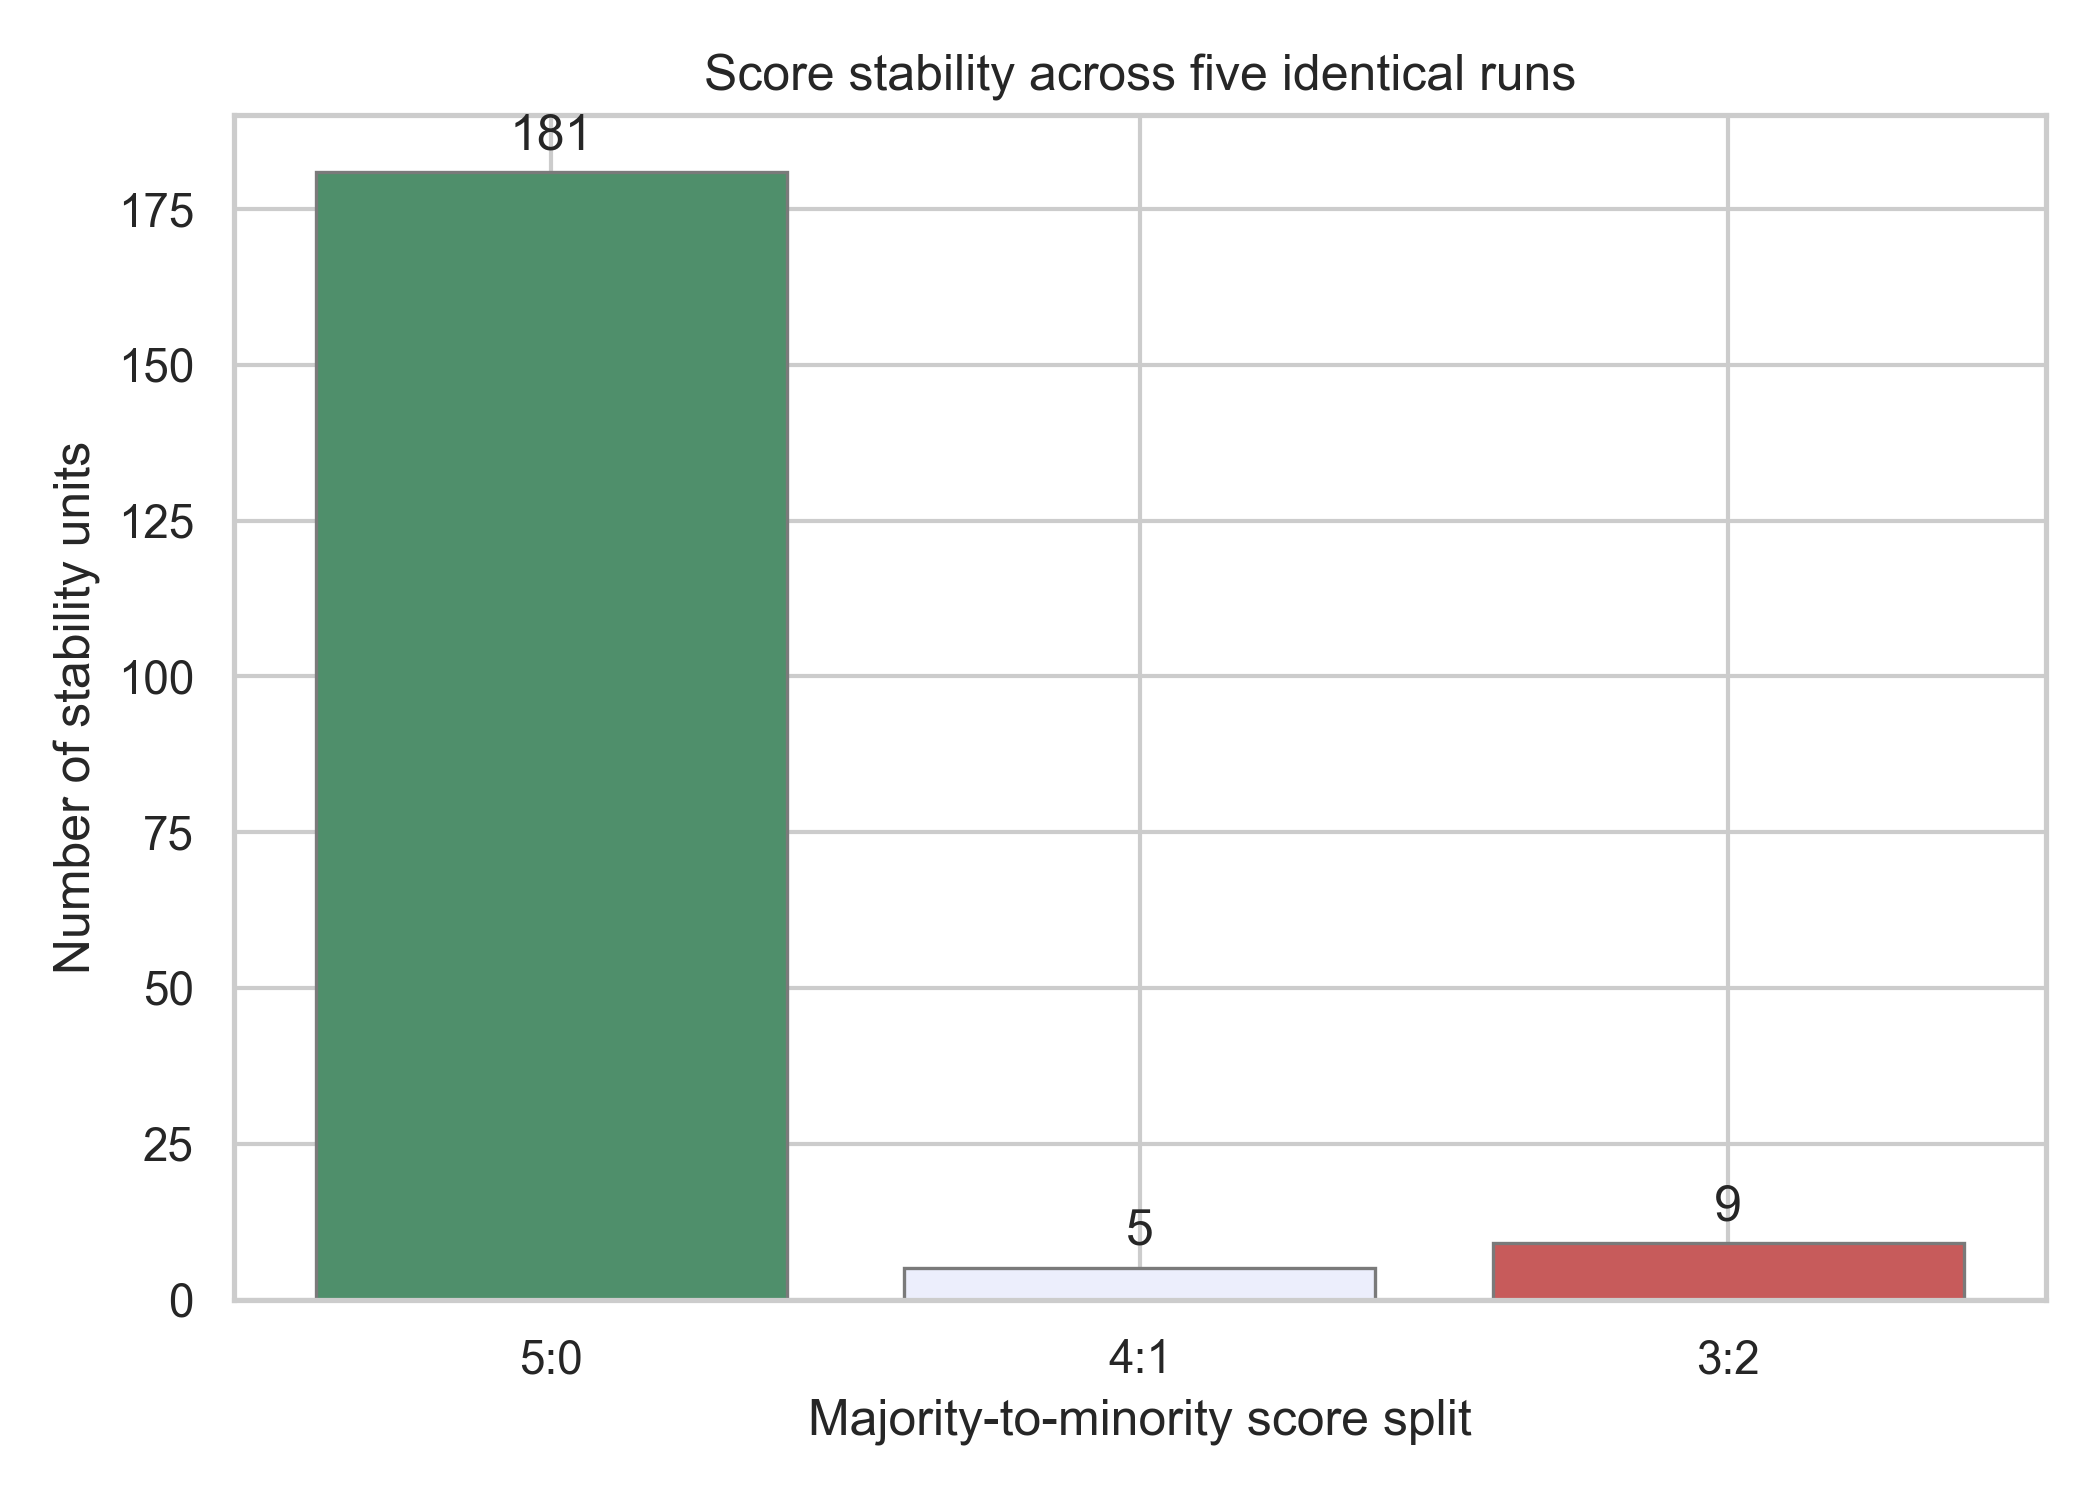
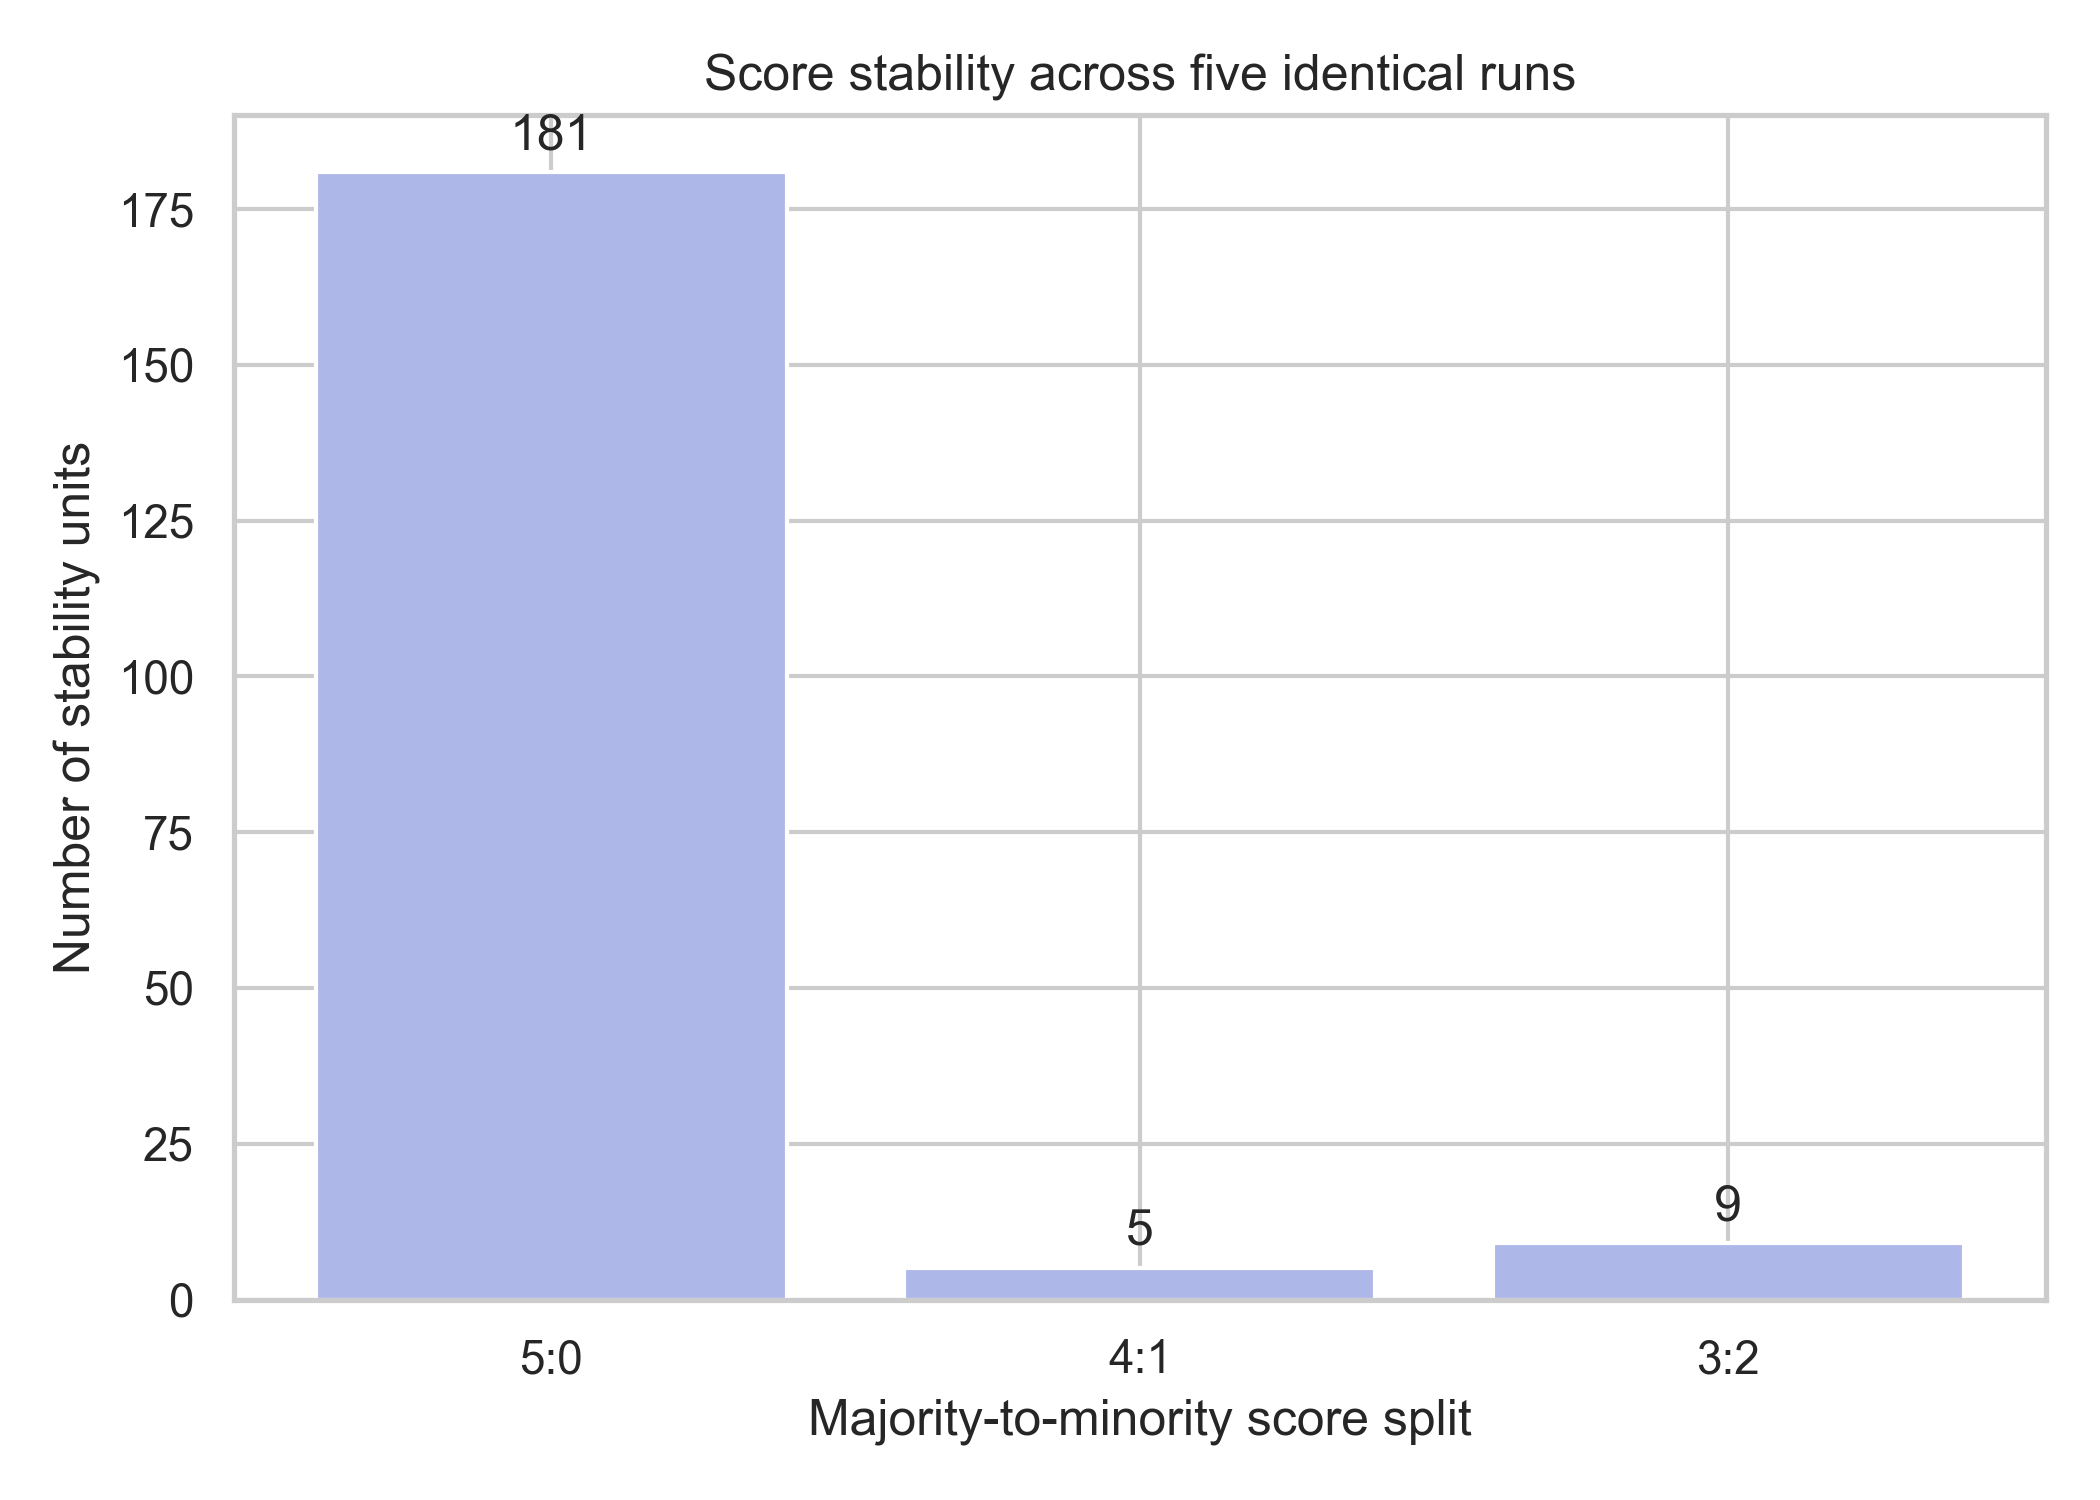
Small adjustments

Changed region(s): [[0.1238, 0.092, 0.4024, 0.8893], [0.7119, 0.828, 0.9595, 0.8893], [0.4333, 0.828, 0.65, 0.8893]]

diff --git a/03_analysis/h1_x/h1_h2.py b/03_analysis/h1_x/h1_h2.py
@@ -48,13 +48,9 @@ FIRMOGRAPHIC_FEATURES = {"company_size", "industry", "region"}
 
 # Color system.
 
-FEATURE_TYPE_COLORS = {
-    "Behavioral": "#08519C",
-    "Firmographic": "#9ECAE1",
-}
 OUTCOME_COLORS = {
-    "Lead score": "#093C6F",
-    "Explanation attribution": "#76B5D7",
+    "Lead score": "#6A89A7",
+    "Explanation attribution": "#384959",
 }
 
 
@@ -252,54 +248,17 @@ def create_figure(group_summary):
         x="feature_type",
         y="instability_rate",
         hue="Outcome",
-        palette=["#FFFFFF", "#FFFFFF"],
+        palette=OUTCOME_COLORS,
         saturation=1,
         ax=ax,
     )
 
-    feature_order = ["Behavioral", "Firmographic"]
-    outcome_order = ["Lead score", "Explanation attribution"]
-
-    bar_colors = {
-        ("Behavioral", "Lead score"): FEATURE_TYPE_COLORS["Behavioral"],
-        ("Firmographic", "Lead score"): FEATURE_TYPE_COLORS["Firmographic"],
-        ("Behavioral", "Explanation attribution"): OUTCOME_COLORS["Lead score"],
-        ("Firmographic", "Explanation attribution"):
-            OUTCOME_COLORS["Explanation attribution"],
-    }
-
-    for container, outcome in zip(ax.containers, outcome_order):
-        for bar, feature_type in zip(container, feature_order):
-            bar.set_facecolor(bar_colors[(feature_type, outcome)])
-            bar.set_edgecolor("white")
-            bar.set_linewidth(0.8)
-
+    for container in ax.containers:
         ax.bar_label(
             container,
             labels=[f"{bar.get_height():.1%}" for bar in container],
             padding=3,
         )
-
-    if ax.get_legend() is not None:
-        ax.get_legend().remove()
-
-    feature_legend = [
-        Patch(
-            facecolor=FEATURE_TYPE_COLORS["Behavioral"],
-            edgecolor="white",
-            label="Behavioral",
-        ),
-        Patch(
-            facecolor=FEATURE_TYPE_COLORS["Firmographic"],
-            edgecolor="white",
-            label="Firmographic",
-        ),
-    ]
-
-    ax.legend(
-        handles=feature_legend,
-        title="Feature type",
-    )
 
     maximum = plot_data["instability_rate"].max()
     ax.set_ylim(0, max(0.10, maximum * 1.30))

diff --git a/03_analysis/h2/h2_stability_analysis.py b/03_analysis/h2/h2_stability_analysis.py
@@ -82,7 +82,7 @@ INTENT_COLORS = {
 }
 STABILITY_COLORS = {
     "fully_stable": "#4F8F6B",
-    "partly_stable": "#ECEEFC",
+    "partly_stable": "#AEB8E8",
     "unstable": "#C75B5B",
 }
 NEUTRAL_COLOR = "#AEB8E8"
@@ -484,16 +484,14 @@ def create_figures(
     )
     fig, ax = plt.subplots(figsize=(7, 5))
     colors = [
-        STABILITY_COLORS["fully_stable"],
         STABILITY_COLORS["partly_stable"],
-        STABILITY_COLORS["unstable"],
+        STABILITY_COLORS["partly_stable"],
+        STABILITY_COLORS["partly_stable"],
     ]
     bars = ax.bar(
         split_counts.index,
         split_counts.values,
-        color=colors,
-        edgecolor="#7A7A7A",
-        linewidth=0.8,
+        color=colors
     )
     ax.bar_label(bars, padding=3)
     ax.set_title("Score stability across five identical runs")

diff --git a/03_analysis/h4/h4_model_differences.py b/03_analysis/h4/h4_model_differences.py
@@ -83,8 +83,8 @@ MODEL_COLORS = {
     "apertus": "#55ADD8",
 }
 INPUT_TYPE_COLORS = {
-    "Baseline": "#BAC9D2",
-    "Perturbed": "#57626F",
+    "Baseline": "#BDDDFC",
+    "Perturbed": "#384959",
 }
 H3_CODE_COLORS = {
     0: "#D8B4E2",  # Light purple

diff --git a/03_analysis/h3/h3_explanation_alignment.py b/03_analysis/h3/h3_explanation_alignment.py
@@ -52,7 +52,7 @@ SCORE_CHANGE_COLORS = {
 }
 VARIANT_COLORS = {
     "V1": "#08519C",
-    "V2": "#9ECAE1",
+    "V2": "#AEB8E8",
 }
 NEUTRAL_COLOR = "#3182bd"
 
